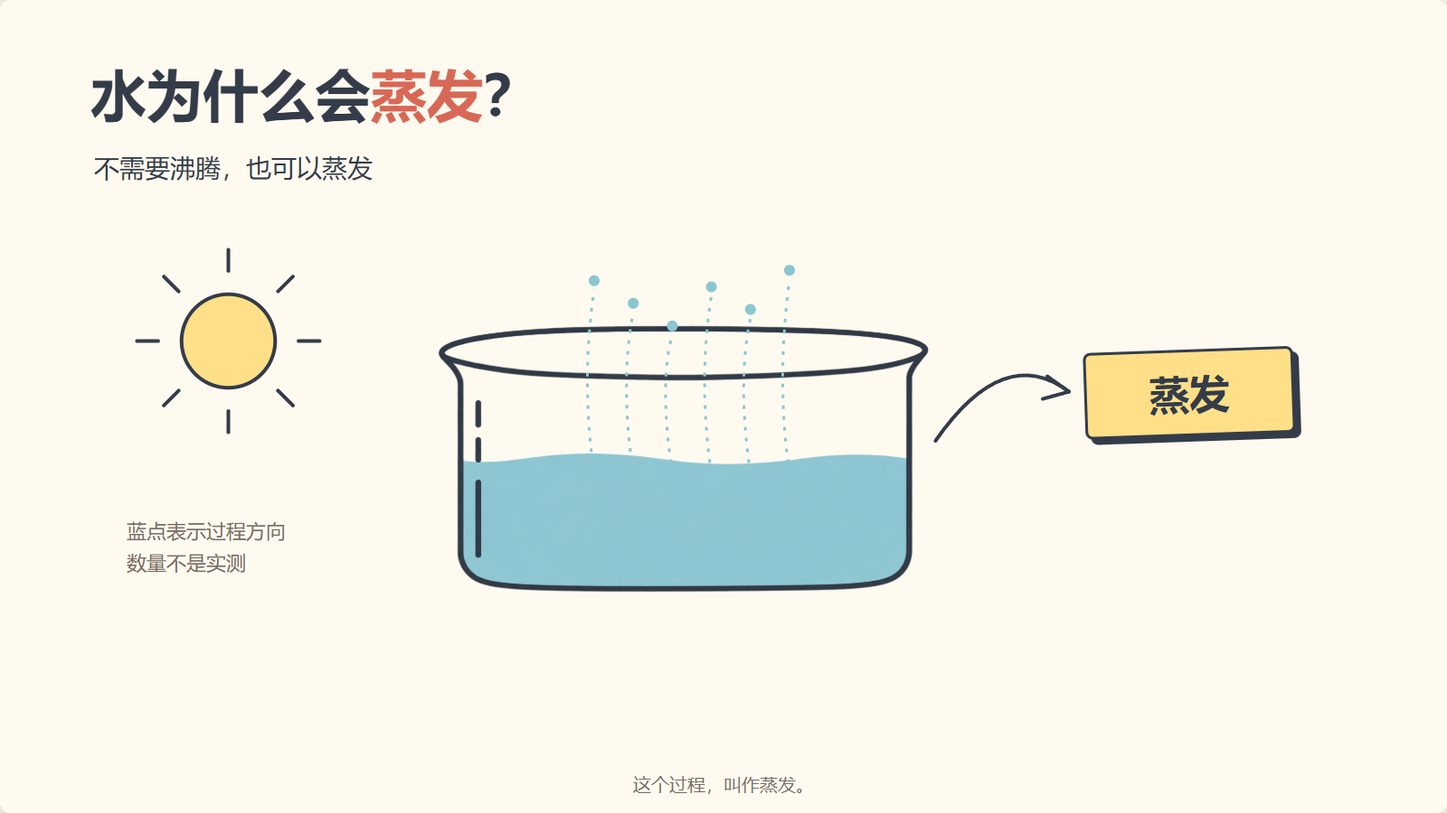
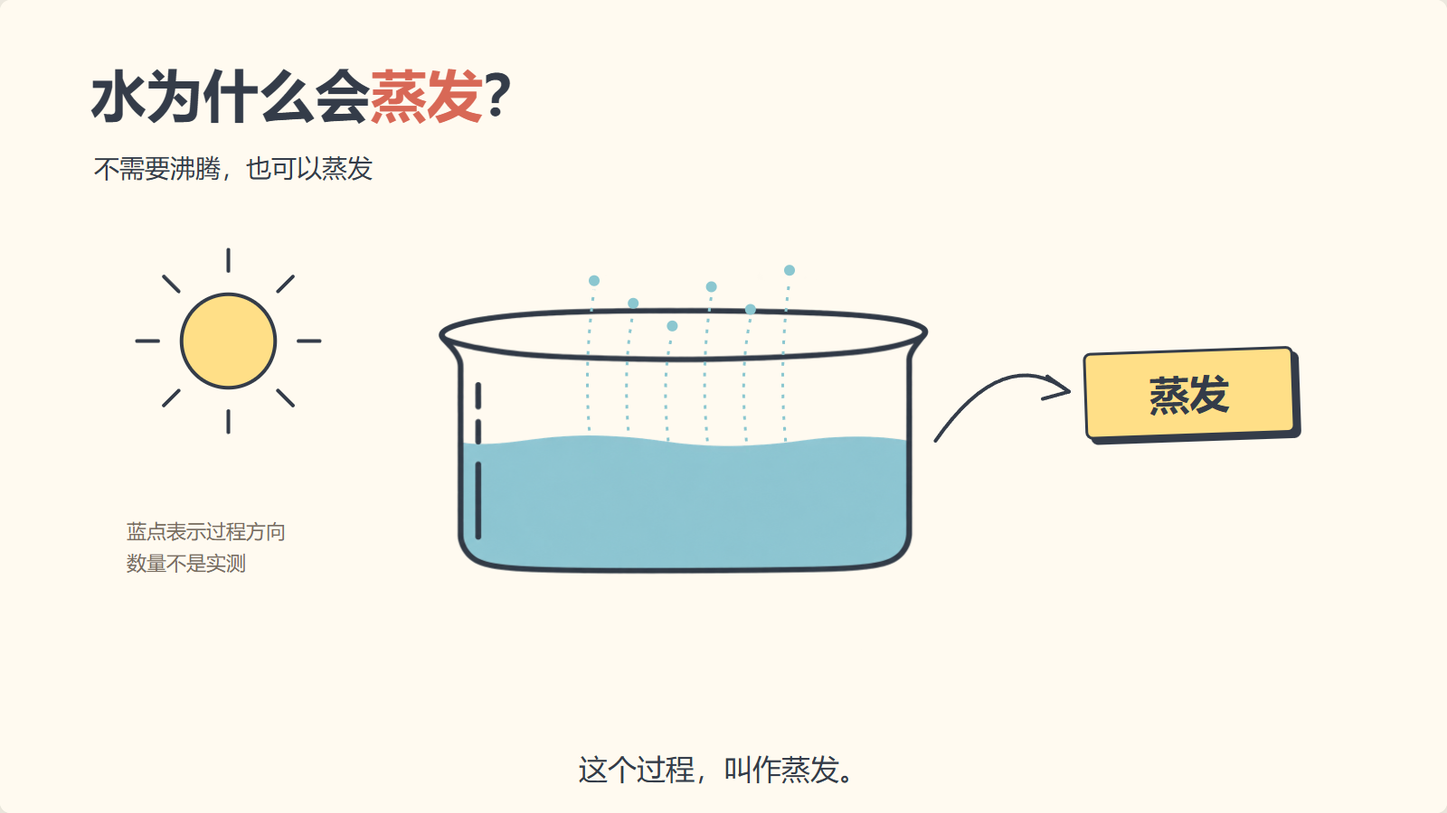
fix: establish handdrawn style and reserve subtitle area

diff --git a/html_engine/experiments/evaporation-01/player.js b/html_engine/experiments/evaporation-01/player.js
@@ -1,19 +1,33 @@
 (() => {
   'use strict';
   const stage=document.querySelector('#stage'),frame=document.querySelector('#frame'),definition=window.EvapDefinition;
+  const zone=definition.subtitleZone;
+  const content=document.createElement('div');content.id='content-layer';
+  Object.assign(content.style,{position:'absolute',left:'0',top:'0',width:'1600px',height:zone.top+'px',overflow:'hidden'});stage.append(content);
   const effects=new Map();
-  function put(id,type,x,y,params){const host=document.createElement('div');host.className='object';host.style.left=x+'px';host.style.top=y+'px';stage.append(host);const fx=FlatEffects.mount(host,type,{...params,id});effects.set(id,fx);return fx;}
+  function put(id,type,x,y,params){const host=document.createElement('div');host.className='object';host.style.left=x+'px';host.style.top=y+'px';content.append(host);const fx=FlatEffects.mount(host,type,{...params,id});effects.set(id,fx);return fx;}
   put('title','text',100,60,{text:definition.title,width:1380,height:100,fontSize:62,bold:true,accent:'蒸发'});
   put('subtitle','text',104,165,{text:'不需要沸腾，也可以蒸发',width:1100,height:70,fontSize:28});
   put('sun','sun',135,265,{width:235,height:225});
   put('particles','flow',585,265,{width:360,height:285,count:6,seed:17});
   put('direction','arrow',1020,360,{width:180,height:160});
   put('term','paper',1200,392,{text:'蒸发',width:230,height:95,fontSize:44});
-  put('state','mark',515,669,{text:'液态 → 气态',width:540,height:126,fontSize:43});
-  put('explanation','text',510,800,{text:'水变成水蒸气，进入空气。',accent:'水蒸气',width:710,height:70,fontSize:28});
-  const asset=document.createElement('img');asset.className='beaker';asset.src='assets/beaker.png';asset.alt='独立手绘烧杯插画，半杯蓝色水';stage.insertBefore(asset,stage.children[3]);
-  const hint=document.createElement('div');hint.className='hint';hint.textContent='蓝点表示过程方向\n数量不是实测';hint.style.whiteSpace='pre-line';stage.append(hint);
-  const caption=document.createElement('div');caption.className='caption';stage.append(caption);
+  put('state','mark',515,635,{text:'液态 → 气态',width:540,height:126,fontSize:43});
+  put('explanation','text',1070,555,{text:'水变成水蒸气，进入空气。',accent:'水蒸气',width:400,height:110,fontSize:28});
+  const asset=document.createElement('img');asset.className='beaker';asset.src='assets/beaker.png';asset.alt='独立手绘烧杯插画，半杯蓝色水';content.insertBefore(asset,content.children[3]);
+  const hint=document.createElement('div');hint.className='hint';hint.textContent='蓝点表示过程方向\n数量不是实测';hint.style.whiteSpace='pre-line';content.append(hint);
+  const captionRegion=document.createElement('div');captionRegion.id='subtitle-layer';
+  Object.assign(captionRegion.style,{position:'absolute',left:'0',top:zone.top+'px',width:'1600px',height:zone.height+'px',padding:`${zone.paddingY}px ${zone.paddingX}px`,display:'flex',alignItems:'center',justifyContent:'center',background:FlatEffects.palette.paper});stage.append(captionRegion);
+  const caption=document.createElement('div');caption.className='caption';captionRegion.append(caption);
+  const fontControl=document.querySelector('#subtitle-size'),fontValue=document.querySelector('#subtitle-size-value');
+  fontControl.min=zone.fontMin;fontControl.max=zone.fontMax;
+  function setSubtitleFont(size){
+    if(!Number.isInteger(size)||size<zone.fontMin||size>zone.fontMax)throw new RangeError('Subtitle font outside supported range');
+    const probe=document.createElement('canvas').getContext('2d');probe.font=`${size}px "Microsoft YaHei"`;
+    const availableWidth=1600-2*zone.paddingX,availableHeight=zone.height-2*zone.paddingY;
+    for(const beat of definition.beats){let lines=1,width=0;for(const ch of beat.caption){const cw=probe.measureText(ch).width;if(width+cw>availableWidth){lines++;width=0;}width+=cw;}if(lines>zone.maxLines||lines*size*1.25>availableHeight)throw new Error('字幕过长，请缩小字号或拆分字幕。');}
+    caption.style.fontSize=size+'px';fontControl.value=size;fontValue.textContent=size+' px';
+  }
   const seek=document.querySelector('#seek'),clock=document.querySelector('#clock'),status=document.querySelector('#status');
   let time=0,playing=false,ready=false,raf=0,last=0;
   const progress=(t,s,d)=>Math.max(0,Math.min(1,(t-s)/d));
@@ -31,8 +45,8 @@
   function pause(){playing=false;cancelAnimationFrame(raf);}
   function tick(now){if(!playing)return;const next=Math.min(definition.durationMs,time+Math.max(0,now-last));last=Math.max(last,now);try{renderAt(next);}catch(e){pause();status.textContent='播放失败：'+e.message;return;}if(next>=definition.durationMs){pause();return;}raf=requestAnimationFrame(tick);}
   function play(){if(!ready)return;pause();renderAt(0);playing=true;last=performance.now();status.textContent='正在播放 · 20秒无声过程动画';raf=requestAnimationFrame(tick);}
-  document.querySelector('#play').onclick=play;document.querySelector('#pause').onclick=pause;document.querySelector('#reset').onclick=()=>{pause();renderAt(0)};seek.oninput=()=>{pause();renderAt(Number(seek.value))};document.querySelector('#reduce').onchange=()=>renderAt(time);document.addEventListener('visibilitychange',()=>{if(document.hidden)pause()});
+  document.querySelector('#play').onclick=play;document.querySelector('#pause').onclick=pause;document.querySelector('#reset').onclick=()=>{pause();renderAt(0)};seek.oninput=()=>{pause();renderAt(Number(seek.value))};document.querySelector('#reduce').onchange=()=>renderAt(time);fontControl.oninput=()=>{try{setSubtitleFont(Number(fontControl.value));status.textContent='字幕字号已调整；上方画面布局保持固定。';}catch(e){fontControl.value=Number.parseInt(caption.style.fontSize);status.textContent=e.message;}};document.addEventListener('visibilitychange',()=>{if(document.hidden)pause()});
   new ResizeObserver(()=>stage.style.transform=`scale(${frame.clientWidth/1600})`).observe(frame);
-  window.evap={renderAt,pause,play,get playing(){return playing},get time(){return time},geometry:id=>id==='beaker'?asset.getBoundingClientRect().toJSON():effects.get(id).geometry()};
-  window.evapReady=(async()=>{await document.fonts.ready;await asset.decode();const probe=document.createElement('canvas').getContext('2d');probe.font='32px monospace';const w=probe.measureText('蒸发Wim').width;probe.font='32px "Microsoft YaHei",monospace';if(probe.measureText('蒸发Wim').width===w)throw new Error('Microsoft YaHei missing');ready=true;document.querySelectorAll('#play,#reset,#seek').forEach(e=>e.disabled=false);renderAt(19999);status.textContent='准备完成 · 点击播放，或拖动时间条查看过程';})();window.evapReady.catch(e=>status.textContent='准备失败：'+e.message);
+  window.evap={renderAt,pause,play,setSubtitleFont,get subtitleFont(){return Number.parseInt(caption.style.fontSize)},get playing(){return playing},get time(){return time},geometry:id=>id==='beaker'?asset.getBoundingClientRect().toJSON():effects.get(id).geometry()};
+  window.evapReady=(async()=>{await document.fonts.ready;await asset.decode();const probe=document.createElement('canvas').getContext('2d');probe.font='32px monospace';const w=probe.measureText('蒸发Wim').width;probe.font='32px "Microsoft YaHei",monospace';if(probe.measureText('蒸发Wim').width===w)throw new Error('Microsoft YaHei missing');setSubtitleFont(zone.fontSize);ready=true;document.querySelectorAll('#play,#reset,#seek,#subtitle-size').forEach(e=>e.disabled=false);renderAt(19999);status.textContent='准备完成 · 点击播放，或拖动时间条查看过程';})();window.evapReady.catch(e=>status.textContent='准备失败：'+e.message);
 })();

diff --git a/html_engine/experiments/evaporation-01/definition.js b/html_engine/experiments/evaporation-01/definition.js
@@ -1,1 +1,1 @@
-window.EvapDefinition={"format":"hps.effect-study","version":"0.1.0","durationMs":20000,"canvas":[1600,900],"style":"handdrawn-v1","library":"../../effects/handdrawn-v1/effects.js","scope":"independent visual experiment; manual silent timing; user visual approval pending","title":"水为什么会蒸发？","objects":[{"id":"title","type":"text","effect":"A06","implementation":"CSS"},{"id":"sun","type":"sun","effect":"A04","implementation":"SVG"},{"id":"beaker","implementation":"image","asset":"assets/beaker.png","role":"whole static beaker; no internal animated parts"},{"id":"particles","type":"flow","effect":"A05","implementation":"Canvas 2D","count":6,"seed":17},{"id":"direction","type":"arrow","effect":"A02","implementation":"SVG"},{"id":"term","type":"paper","effect":"A01","implementation":"CSS","text":"蒸发"},{"id":"state","type":"mark","effect":"A03","implementation":"SVG","text":"液态 → 气态"},{"id":"explanation","type":"text","effect":"A06","implementation":"CSS","text":"水变成水蒸气，进入空气。"}],"beats":[{"startMs":0,"endMs":4000,"caption":"水面看起来很平静，水也会慢慢蒸发。","motion":"title enters, beaker settles, sun reveals"},{"startMs":4000,"endMs":10000,"caption":"水变成水蒸气，进入空气。","motion":"six symbolic particles rise; do not show boiling"},{"startMs":10000,"endMs":14500,"caption":"这个过程，叫作蒸发。","motion":"arrow draws toward paper label, label lands"},{"startMs":14500,"endMs":20000,"caption":"记住：蒸发是从液态变为气态。","motion":"circle draws around state change, explanation appears, hold final"}],"keyframes":[0,3000,7000,12000,16000,19999],"accuracy":"Evaporation may happen without sunshine or boiling. Sun is context, not required cause. Six dots are symbols, not measured molecules. No visible steam clouds."};
+window.EvapDefinition={"format": "hps.effect-study", "version": "0.1.0", "durationMs": 20000, "canvas": [1600, 900], "style": "handdrawn-v1", "library": "../../effects/handdrawn-v1/effects.js", "scope": "independent visual experiment; manual silent timing; user visual approval pending", "title": "水为什么会蒸发？", "objects": [{"id": "title", "type": "text", "effect": "A06", "implementation": "CSS"}, {"id": "sun", "type": "sun", "effect": "A04", "implementation": "SVG"}, {"id": "beaker", "implementation": "image", "asset": "assets/beaker.png", "role": "whole static beaker; no internal animated parts"}, {"id": "particles", "type": "flow", "effect": "A05", "implementation": "Canvas 2D", "count": 6, "seed": 17}, {"id": "direction", "type": "arrow", "effect": "A02", "implementation": "SVG"}, {"id": "term", "type": "paper", "effect": "A01", "implementation": "CSS", "text": "蒸发"}, {"id": "state", "type": "mark", "effect": "A03", "implementation": "SVG", "text": "液态 → 气态"}, {"id": "explanation", "type": "text", "effect": "A06", "implementation": "CSS", "text": "水变成水蒸气，进入空气。"}], "beats": [{"startMs": 0, "endMs": 4000, "caption": "水面看起来很平静，水也会慢慢蒸发。", "motion": "title enters, beaker settles, sun reveals"}, {"startMs": 4000, "endMs": 10000, "caption": "水变成水蒸气，进入空气。", "motion": "six symbolic particles rise; do not show boiling"}, {"startMs": 10000, "endMs": 14500, "caption": "这个过程，叫作蒸发。", "motion": "arrow draws toward paper label, label lands"}, {"startMs": 14500, "endMs": 20000, "caption": "记住：蒸发是从液态变为气态。", "motion": "circle draws around state change, explanation appears, hold final"}], "keyframes": [0, 3000, 7000, 12000, 16000, 19999], "accuracy": "Evaporation may happen without sunshine or boiling. Sun is context, not required cause. Six dots are symbols, not measured molecules. No visible steam clouds.", "revision": 2, "subtitleZone": {"top": 800, "height": 100, "paddingX": 80, "paddingY": 10, "fontSize": 32, "fontMin": 20, "fontMax": 44, "maxLines": 2, "reservedWhenEmpty": true, "coordinateSpace": "1600x900 scene pixels"}};

diff --git a/html_engine/experiments/evaporation-01/index.html b/html_engine/experiments/evaporation-01/index.html
@@ -1,1 +1,1 @@
-<!doctype html><html lang="zh-CN"><meta charset="utf-8"><meta name="viewport" content="width=device-width"><title>蒸发 · 手绘过程动画</title><link rel="stylesheet" href="style.css"><main><header><strong>水为什么会蒸发？ · 手绘动画</strong><a href="../../effects/handdrawn-v1/atlas.html">效果库</a><a href="comparison.html">设计与还原</a><a href="reuse.html">复用样例</a></header><div id="frame"><div id="stage"></div></div><div class="controls"><button id="play" disabled>播放 / 重播</button><button id="pause">暂停</button><button id="reset" disabled>回到开场</button><input id="seek" type="range" min="0" max="20000" value="0" disabled><output id="clock">准备中</output><label><input id="reduce" type="checkbox">减少装饰运动</label></div><p id="status" role="status">正在准备字体与独立插画…</p><details><summary>讲稿与实现分工</summary><p>水面看起来很平静，水也会慢慢蒸发。水变成水蒸气，进入空气。这个过程，叫作蒸发。记住：蒸发是从液态变为气态。</p><p>标题和纸片标签：CSS；太阳、箭头和圈注：SVG；六个示意粒子：Canvas 2D；烧杯：独立生图资产。太阳只是场景条件，蒸发不以日照或沸腾为前提。</p><p>20秒无声预演，时间手工安排；<a href="README.md">流程记录</a>。</p></details></main><script src="../../effects/handdrawn-v1/effects.js"></script><script src="definition.js"></script><script src="player.js"></script></html>
+<!doctype html><html lang="zh-CN"><meta charset="utf-8"><meta name="viewport" content="width=device-width"><title>蒸发 · 手绘过程动画</title><link rel="stylesheet" href="style.css?v=subtitle-zone-1"><main><header><strong>水为什么会蒸发？ · 手绘动画</strong><a href="../../effects/handdrawn-v1/atlas.html">效果库</a><a href="comparison.html">设计与还原</a><a href="reuse.html">复用样例</a></header><div id="frame"><div id="stage"></div></div><div class="controls"><button id="play" disabled>播放 / 重播</button><button id="pause">暂停</button><button id="reset" disabled>回到开场</button><input id="seek" type="range" min="0" max="20000" value="0" disabled><output id="clock">准备中</output><label><input id="reduce" type="checkbox">减少装饰运动</label></div><div class="subtitle-setting"><label for="subtitle-size">字幕字号</label><input id="subtitle-size" type="range" step="1" disabled><output id="subtitle-size-value"></output></div><p id="status" role="status">正在准备字体与独立插画…</p><details><summary>讲稿与实现分工</summary><p>水面看起来很平静，水也会慢慢蒸发。水变成水蒸气，进入空气。这个过程，叫作蒸发。记住：蒸发是从液态变为气态。</p><p>标题和纸片标签：CSS；太阳、箭头和圈注：SVG；六个示意粒子：Canvas 2D；烧杯：独立生图资产。太阳只是场景条件，蒸发不以日照或沸腾为前提。</p><p>20秒无声预演，时间手工安排；<a href="README.md">流程记录</a>。</p></details></main><script src="../../effects/handdrawn-v1/effects.js"></script><script src="definition.js?v=subtitle-zone-1"></script><script src="player.js?v=subtitle-zone-1"></script></html>

diff --git a/html_engine/experiments/evaporation-01/style.css b/html_engine/experiments/evaporation-01/style.css
@@ -1,1 +1,1 @@
-*{box-sizing:border-box}body{margin:0;background:#eeeae0;color:#343c49;font-family:'Microsoft YaHei',sans-serif}main{max-width:1664px;margin:24px auto;padding:0 24px}header{display:flex;gap:24px;align-items:center;margin-bottom:18px}header strong{font-size:22px;margin-right:auto}a{color:#735c43}#frame{width:100%;aspect-ratio:16/9;position:relative;overflow:hidden;border-radius:12px;background:#fffaf0;box-shadow:0 14px 40px #343c4912}#stage{width:1600px;height:900px;position:absolute;transform-origin:0 0;background:#fffaf0}.object{position:absolute}.controls{display:flex;gap:12px;align-items:center;margin-top:18px}button{font:inherit;border:1px solid #d8c7ad;background:#fffdf5;padding:10px 18px;border-radius:8px;cursor:pointer}button:disabled{opacity:.4;cursor:wait}#seek{flex:1;accent-color:#d86856}#clock{min-width:100px}#status{font-size:15px;color:#786d5f}details p{line-height:1.8;max-width:1000px}.caption{position:absolute;left:90px;top:855px;width:1420px;text-align:center;font-size:20px;color:#786d5f}.beaker{position:absolute;left:365px;top:260px;width:780px;height:488px;object-fit:contain;transform-origin:50% 90%}.hint{position:absolute;left:140px;top:570px;width:270px;font-size:22px;line-height:1.6;color:#786d5f}@media(max-width:900px){header,.controls{flex-wrap:wrap}#seek{min-width:220px}main{padding:0 12px}}
+*{box-sizing:border-box}body{margin:0;background:#eeeae0;color:#343c49;font-family:'Microsoft YaHei',sans-serif}main{max-width:1664px;margin:24px auto;padding:0 24px}header{display:flex;gap:24px;align-items:center;margin-bottom:18px}header strong{font-size:22px;margin-right:auto}a{color:#735c43}#frame{width:100%;aspect-ratio:16/9;position:relative;overflow:hidden;border-radius:12px;background:#fffaf0;box-shadow:0 14px 40px #343c4912}#stage{width:1600px;height:900px;position:absolute;transform-origin:0 0;background:#fffaf0}.object{position:absolute}.controls{display:flex;gap:12px;align-items:center;margin-top:18px}button{font:inherit;border:1px solid #d8c7ad;background:#fffdf5;padding:10px 18px;border-radius:8px;cursor:pointer}button:disabled{opacity:.4;cursor:wait}#seek{flex:1;accent-color:#d86856}#clock{min-width:100px}#status{font-size:15px;color:#786d5f}details p{line-height:1.8;max-width:1000px}.caption{width:100%;text-align:center;color:#343c49;line-height:1.25;white-space:normal;overflow-wrap:anywhere}#subtitle-size{width:110px;accent-color:#d86856}.subtitle-setting{display:flex;gap:8px;align-items:center}.controls{flex-wrap:wrap}.beaker{position:absolute;left:365px;top:240px;width:780px;height:488px;object-fit:contain;transform-origin:50% 90%}.hint{position:absolute;left:140px;top:570px;width:270px;font-size:22px;line-height:1.6;color:#786d5f}@media(max-width:900px){header,.controls{flex-wrap:wrap}#seek{min-width:220px}main{padding:0 12px}}

diff --git a/docs/styles/handdrawn-science/README.md b/docs/styles/handdrawn-science/README.md
@@ -1,0 +1,34 @@
+# 手绘科普风：首个优先建设风格
+
+用户选择：先做手绘风格。当前蒸发实验作为第一版视觉基准，不代表所有内容与布局已验收；原浅色科普参考保留为历史探索，不覆盖旧作品。
+
+## 视觉定义
+
+| 项目 | 第一版约束 |
+| --- | --- |
+| 背景 | 暖纸色 #fffaf0，大面积留白，字幕区不加纹理 |
+| 主体 | 深灰 #343c49 描边与文字；不用纯黑厚重边框 |
+| 强调 | 珊瑚红 #d86856 标重点；浅黄 #ffdf87 作纸片；蓝 #8bc7d0 作示意 |
+| 字体 | 微软雅黑，标题加粗，正文清晰；手绘感来自图形，不强制难读的手写字 |
+| 线条 | 圆端、轻微不规则的二维曲线；通过固定路径或固定种子保持稳定 |
+| 阴影 | 纸片可用单向硬投影，避免玻璃、金属和复杂光照 |
+| 插画 | 独立透明资产，轮廓简洁，配色与代码一致；不把可变文字和关系箭头画进资产 |
+| 动效 | 描线、圈注、标签落位和定向流动服务讲解；统一时间，可暂停、跳转 |
+
+具体支持范围以[效果组件定义](../../../html_engine/effects/handdrawn-v1/DEFINITION.md)为准，不因本任务书扩大参数范围。现有烧杯水面含渐变，为已记录资产偏差，后续新增资产优先平涂；本轮不重复生成已经可用的资产。
+
+## 公共能力与风格的边界
+
+对象身份、文字内容、语义关系、时间轴、字幕区、几何目标、导出属于公共体系。颜色、描边、纸片投影、插画画风属于本风格。复用现有七类效果实现，主题不另写一套业务组件。
+
+布局按内容选择：单对象过程、左右对比、路径步骤、中心分支、数据解释都是可探索构图，不强制所有页同一结构。目前只有蒸发单对象过程有本风格完整实现证据，其余须单独建立内容容量与审阅样例。
+
+## 生产方式与复用
+
+1. 先定讲解目标、对象清单、运动和字幕，选择已验证布局；新布局先作设计探索。
+2. 向生图模型附[效果库参考图](../../../html_engine/effects/handdrawn-v1/atlas.png)，提示词仍列对象对应的CSS、SVG、Canvas或独立资产及字幕安全区。
+3. 成熟布局无需每页重新生设计图；相同效果库图按版本复用。新增效果/配色才更新对应图板。资产按语义适配复用，不能只因相似就替换科学对象。
+4. 生图负责独立插画；CSS负责文字与纸片，SVG负责箭头/圈注/图标，Canvas负责定向粒子。用同一时间轴组装。
+5. 检查知识准确性、视觉层级、字幕留白及运动；设计图好看不等于最终动画获批准。
+
+[查看当前动画](../../../html_engine/experiments/evaporation-01/index.html)；[设计对照](../../../html_engine/experiments/evaporation-01/comparison.html)。字幕字号在播放器调节；当前视频固定导出32px逻辑字号，控件设置不会自动保存到未来导出。

diff --git a/docs/contracts/html-presentation/framework/09-flat-effects.md b/docs/contracts/html-presentation/framework/09-flat-effects.md
@@ -114,3 +114,13 @@ HTML预览、视频、PPTX分别声明支持：Canvas可按帧合成为视频；
 ### 首批限定实现证据
 
 [手绘效果库0.1.0](../../../../html_engine/effects/handdrawn-v1/README.md)已实现七类独立效果，含CSS文字/纸片/容器、SVG箭头/圈注/太阳、Canvas粒子。其A01—A07为独立库内部编号，不改变上表候选规划ID或E1/E2注册表。[蒸发场景](../../../../html_engine/experiments/evaporation-01/README.md)完成图板→设计→资产→动画→复用/视频验证；只代表限定实现，用户视觉批准仍待审阅。上文候选清单保持规划范围，其余能力尚未实现。
+
+## HPS-033 / HPS-034 补充：参考图复用与字幕安全区
+
+效果库参考图按组件版本、主题修订和选用效果集缓存复用，不要求每部视频、每页重新制作。只有实现、可见参数或效果集合改变才重新渲染图板；生成任务记录实际使用的版本/输入快照。图板是代码效果的说明，不是每页必须生成的设计稿。新构图或复杂过程可做设计参考与关键帧；已审阅布局在容量范围内换内容可直接组装并验收。不能省略对象分工、运动定义和最终视觉检查。
+
+16:9首批默认逻辑画布1600×900，内容区为y=0—800，底部y=800—900固定为字幕区；1920×1080等比对应底部120像素。字幕区空字幕时仍保留。标题、图标、插画、SVG、Canvas、装饰、阴影及运动轨迹不得进入；字幕自身可由专用HTML文字层实现。内容裁切仅为兜底，布局必须主动避让，不可用裁切掩盖缺失对象。
+
+字幕默认32px逻辑字号，当前实例支持20—44px，左右内距80px、上下10px、最多两行。字号只改变字幕，不移动内容或扩大区域；超容量应拆分字幕/调整字号并重新验收，禁止溢出和默默截断。整部作品在排版前固定区域尺寸，调整区域尺寸须重新验收布局。导出记录字号与区域；播放器临时字号不等于持久化导出设置。
+
+场景生成提示和关键帧必须要求底部字幕区留白；独立资产图和效果图板不是场景，不需套用这一画面分区。既有设计参考图保留原始输入与时间，不伪称已遵守新增约束。本轮在蒸发独立实验落实，不宣称E1/E2或既有课程批量迁移完成。

diff --git a/html_engine/experiments/evaporation-01/README.md b/html_engine/experiments/evaporation-01/README.md
@@ -34,3 +34,9 @@ node html_engine/experiments/evaporation-01/export.cjs
 ## 审查结论
 
 正确性：真实播放推进与时间跳转检查通过，保留此前首帧非负时钟修复。可读性：公共效果与场景分离，七类共享有限入口，未构建万能布局器。架构：独立效果库、版本定义和图板同源，未注册通用后端。安全：无凭据/外部脚本、文字用textContent、导出参数数组。性能：当前场景有限对象，Canvas粒子≤24、DPR≤2、清屏重绘、编码回压；未对未测设备给出性能保证。未新增依赖，用户视觉批准仍待完成。
+
+## 修订2：手绘基准与字幕分区
+
+用户选择优先建设手绘风格，见[风格定义](../../../docs/styles/handdrawn-science/README.md)。当前内容作为基准继续完善，不等于全面生产批准。底部100px固定为专用字幕区；内容层限制到800px，烧杯、圈注和解释重新排布。字幕默认32px，可调20—44px；字幕控件只影响本次预览，导出固定32px并写入视频记录。参考设计是修订前历史图，未重新生图。
+
+新增验证覆盖20/32/44px所有字幕段的边界、内容不侵入字幕区、字号不影响内容位置和非法字号拒绝。效果库图直接复用，本轮没有新增生图调用。审查：独立字幕层、范围校验、文本安全赋值、无新增依赖；测试与视觉终态检查通过，完整导出另见video.json。

diff --git a/docs/contracts/html-presentation/CHANGELOG.md b/docs/contracts/html-presentation/CHANGELOG.md
@@ -1,5 +1,9 @@
 # HTML 演示契约变更记录
 
+## 0.8.0 手绘方向与字幕分区补充 — 2026-10-07
+
+补充HPS-033图谱按版本复用、成熟布局不逐页重复生图；补充HPS-034固定字幕安全区与字号边界。首个优先风格为手绘科普。蒸发实例修订2落实分区与字体控件，不修改E1/E2格式或自动迁移旧作品。
+
 ## 0.8.0 首批效果库实施补充 — 2026-10-07
 
 独立handdrawn-v1效果库0.1.0实现七类CSS/SVG/Canvas 2D效果；蒸发短场景完成带注释代码图板、附图设计、独立资产、20秒无声动画、14个复用样例与视频检查。实现范围和用户视觉批准分开记录；不注册E1/E2/P01能力，不改应用/TTS/数字人或生产Prompt。详见[交付记录](../../../html_engine/experiments/evaporation-01/README.md)。

diff --git a/docs/styles/science-explainer/README.md b/docs/styles/science-explainer/README.md
@@ -1,5 +1,7 @@
 # 初始风格任务书：知识科普
 
+> 当前优先方向已改为[手绘科普风](../handdrawn-science/README.md)。下文为早期风格探索记录。
+
 > 最新审阅：2026-10-07 用户认为首版拥挤、缺乏美感，状态 changes_requested。
 > 下文保留首次试制记录；待审阅表述已由此次结论取代。按 [视觉重制任务书](visual-production-revision.md) 继续，尚无已批准模板。
 
